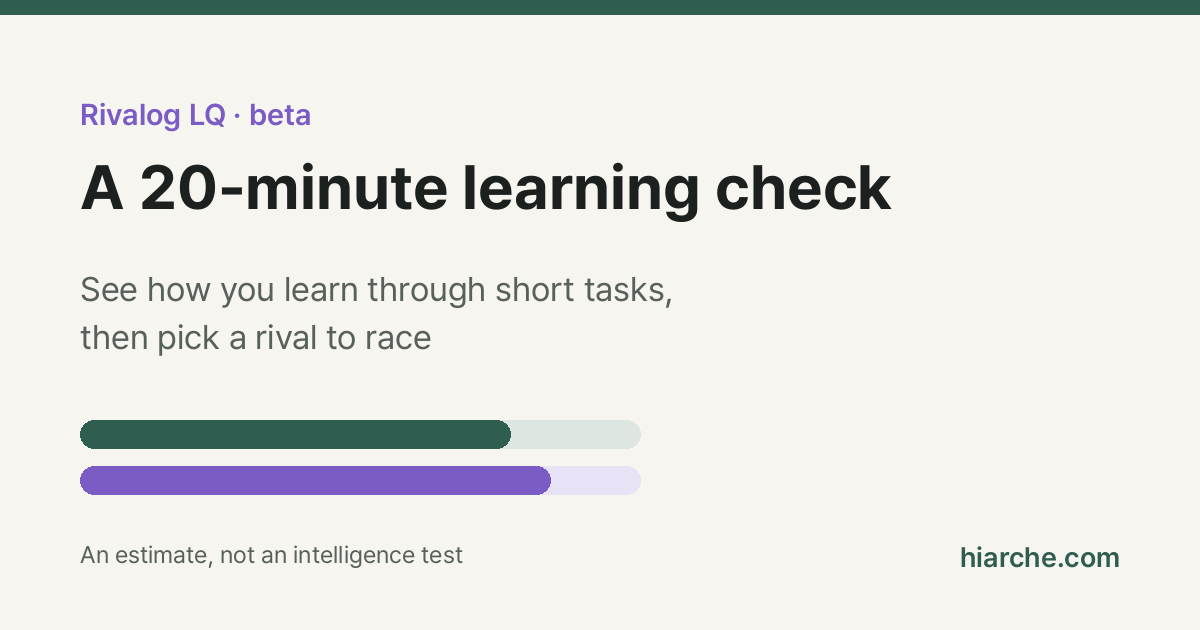
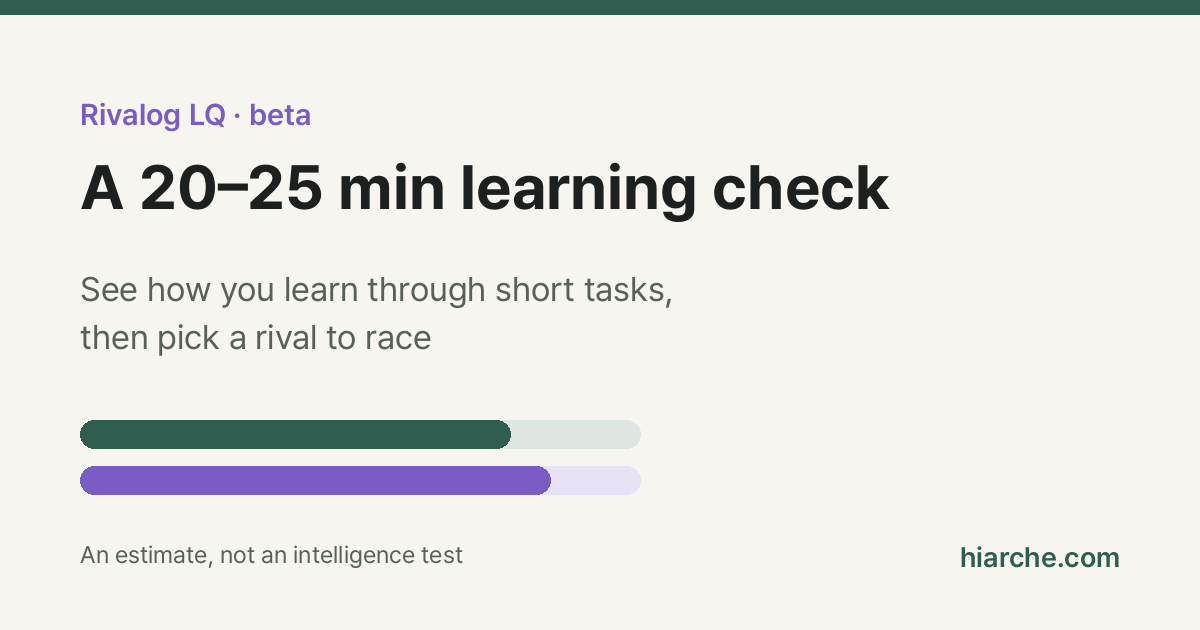
Preview bundle: legal LQ notice, corrected LQ og images (20-25 min)
Not for main until CEO approval. LQ collection pages to be added after audit.

Claude-Session: https://claude.ai/code/session_01AoduYMaqJiGpPcnr2tUJac

Changed region(s): [[0.185, 0.2413, 0.74, 0.3619]]

diff --git a/legal.html b/legal.html
@@ -19,6 +19,11 @@
 <header class="top wrap"><a class="logo" href="index.html"><b>Hi</b>Arche</a><nav class="main" aria-label="Main"><a href="index.html#apps">Apps</a><a href="news.html">News</a><a href="journal.html">Journal</a><a href="support.html">Support</a><a href="press.html">Press &amp; Business</a></nav></header>
 <main id="main" class="wrap" style="padding-block:48px 96px;display:flex;flex-direction:column;gap:48px">
 <div style="display:flex;flex-direction:column;gap:12px"><h1 class="h1" style="font-size:clamp(44px,6vw,72px)">Privacy &amp; Legal</h1><p class="lead">Each app has its own privacy policy, because each one handles different things. This site uses no cookies, analytics or ads.</p></div>
+<section style="display:flex;flex-direction:column;gap:16px"><h2 style="font-size:28px">This website and the LQ test</h2>
+<div style="display:flex;flex-wrap:wrap;gap:20px">
+<p class="card white" style="flex:1 1 480px;min-width:0;margin:0">This site uses no cookies or analytics. LQ results are calculated only in your browser and are sent to Arche&#x27;s storage (Supabase Inc., servers in Seoul, Republic of Korea, acting as our processor) only if you agree and press Send on the result screen. Our hosting provider (Vercel Inc.) and storage provider may keep short-term access logs, including IP addresses, for security; Arche does not receive these logs or link them to test records. Contact and privacy officer: Junhyung Park · archeisit@gmail.com</p>
+<p lang="ko" class="card" style="flex:1 1 320px;min-width:0;margin:0;background:#E9EAE3">이 사이트는 쿠키나 분석 도구를 쓰지 않아요. LQ 검사 결과는 브라우저 안에서만 계산되며, 이용자가 결과 화면에서 직접 동의하고 보내기를 누른 경우에만 위 항목이 아르케의 저장소(Supabase Inc., 서버 위치 대한민국 서울 — 처리 위탁)로 전송돼요. 사이트 호스팅 업체(Vercel Inc.)와 저장소 업체는 보안을 위해 접속 기록(IP 주소 등)을 자체적으로 짧은 기간 남길 수 있으며, 아르케는 이 기록을 받거나 검사 기록과 연결하지 않아요. 문의·개인정보 보호책임자: 박준형 · archeisit@gmail.com</p>
+</div></section>
 <section style="display:flex;flex-direction:column;gap:16px"><h2 style="font-size:28px">App policies</h2>
 <div class="tablewrap"><table><thead><tr><th scope="col">App</th><th scope="col">Privacy policy</th><th scope="col">Support</th><th scope="col">Terms</th></tr></thead><tbody><tr><td style="font-weight:600">Niblore</td><td><a href="https://mistory-app.vercel.app/privacy.html">Read</a></td><td><a href="https://mistory-app.vercel.app/support.html">Open</a></td><td>Apple standard EULA</td></tr><tr><td style="font-weight:600">Burnpile</td><td><a href="https://wnsgud7387-web.github.io/arche-pages/bonfire-privacy.html">Read</a></td><td><a href="https://wnsgud7387-web.github.io/arche-pages/bonfire-support.html">Open</a></td><td>Apple standard EULA</td></tr><tr><td style="font-weight:600">Rivalog</td><td><a href="https://wnsgud7387-web.github.io/arche-pages/rivalog-privacy.html">Read</a></td><td><a href="https://wnsgud7387-web.github.io/arche-pages/rivalog-support.html">Open</a></td><td><a href="https://wnsgud7387-web.github.io/arche-pages/rivalog-terms.html">Read</a></td></tr><tr><td style="font-weight:600">Chosim</td><td><a href="https://wnsgud7387-web.github.io/arche-pages/privacy-microsuccess.html">Read</a></td><td><a href="https://wnsgud7387-web.github.io/arche-pages/support-microsuccess.html">Open</a></td><td>Apple standard EULA</td></tr><tr><td style="font-weight:600">Wanderlure</td><td><a href="https://wnsgud7387-web.github.io/arche-pages/privacy-explorer.html">Read</a></td><td><a href="https://wnsgud7387-web.github.io/arche-pages/support-explorer.html">Open</a></td><td>Apple standard EULA</td></tr><tr><td style="font-weight:600">Story Accounting</td><td><a href="https://wnsgud7387-web.github.io/arche-pages/story-acca-privacy.html">Read</a></td><td><a href="https://wnsgud7387-web.github.io/arche-pages/story-acca-support.html">Open</a></td><td>Apple standard EULA</td></tr></tbody></table></div></section>
 <section style="display:flex;flex-direction:column;gap:16px"><h2 style="font-size:28px">Business information</h2>

diff --git a/src/build.py b/src/build.py
@@ -5,10 +5,15 @@ import os, shutil, html
 ROOT = os.path.dirname(os.path.abspath(__file__))
 OUT = os.path.join(ROOT, 'site')
 UP = '/mnt/user-data/uploads'
-ICONS = '/tmp/claude-0/-home-claude/18cbcfc9-2d52-53f3-b09f-38e638a79a7c/scratchpad/hiarche_icons'
+ICONS = os.path.join(ROOT, 'icons')
+REPO = os.path.dirname(ROOT)  # flat site files at repo root (fallback for lab files)
 PG = 'https://wnsgud7387-web.github.io/arche-pages/'
 BOARD = 'https://github.com/wnsgud7387-web/hiarche-community/discussions'
 E = html.escape
+
+# Legal notice for the site (법무 rpl-20261020-lq-collect-legal C, verbatim)
+SITE_NOTICE_KO = '이 사이트는 쿠키나 분석 도구를 쓰지 않아요. LQ 검사 결과는 브라우저 안에서만 계산되며, 이용자가 결과 화면에서 직접 동의하고 보내기를 누른 경우에만 위 항목이 아르케의 저장소(Supabase Inc., 서버 위치 대한민국 서울 — 처리 위탁)로 전송돼요. 사이트 호스팅 업체(Vercel Inc.)와 저장소 업체는 보안을 위해 접속 기록(IP 주소 등)을 자체적으로 짧은 기간 남길 수 있으며, 아르케는 이 기록을 받거나 검사 기록과 연결하지 않아요. 문의·개인정보 보호책임자: 박준형 · archeisit@gmail.com'
+SITE_NOTICE_EN = "This site uses no cookies or analytics. LQ results are calculated only in your browser and are sent to Arche's storage (Supabase Inc., servers in Seoul, Republic of Korea, acting as our processor) only if you agree and press Send on the result screen. Our hosting provider (Vercel Inc.) and storage provider may keep short-term access logs, including IP addresses, for security; Arche does not receive these logs or link them to test records. Contact and privacy officer: Junhyung Park · archeisit@gmail.com"
 
 APPS = [
   dict(slug='niblore', name='Niblore', kind='Stories', bg='#0A132A', fg='#E3DFD8',
@@ -235,7 +240,8 @@ def build():
             'lab/og_lq2_en.png': 'Desktop/ARCHE/마케팅/hiarche/og_lq2_en.png'}
     for dst, src in labs.items():
         os.makedirs(os.path.dirname(os.path.join(OUT, dst)), exist_ok=True)
-        shutil.copy(os.path.join(UP, src), os.path.join(OUT, dst))
+        s_up = os.path.join(UP, src)
+        shutil.copy(s_up if os.path.exists(s_up) else os.path.join(REPO, os.path.basename(dst)), os.path.join(OUT, dst))
 
     # ---------- index ----------
     icons = ''.join(f'<img src="assets/icons/{a["slug"]}.png" alt="" style="transform:rotate({t})">' for a,t in zip(APPS, ['-4deg','3deg','-2deg','2deg','-3deg','4deg']))
@@ -380,6 +386,11 @@ def build():
     trs = ''.join(f'<tr><td style="font-weight:600">{E(a["name"])}</td><td><a href="{a["privacy"]}">Read</a></td><td><a href="{a["support"]}">Open</a></td><td>{terms_cell(a)}</td></tr>' for a in APPS)
     legal = head('Privacy & Legal — HiArche', 'Privacy policies, terms and business information for Arche and its apps.', 0, 'legal.html') + nav(0, '') + f'''<main id="main" class="wrap" style="padding-block:48px 96px;display:flex;flex-direction:column;gap:48px">
 <div style="display:flex;flex-direction:column;gap:12px"><h1 class="h1" style="font-size:clamp(44px,6vw,72px)">Privacy &amp; Legal</h1><p class="lead">Each app has its own privacy policy, because each one handles different things. This site uses no cookies, analytics or ads.</p></div>
+<section style="display:flex;flex-direction:column;gap:16px"><h2 style="font-size:28px">This website and the LQ test</h2>
+<div style="display:flex;flex-wrap:wrap;gap:20px">
+<p class="card white" style="flex:1 1 480px;min-width:0;margin:0">{E(SITE_NOTICE_EN)}</p>
+<p lang="ko" class="card" style="flex:1 1 320px;min-width:0;margin:0;background:#E9EAE3">{E(SITE_NOTICE_KO)}</p>
+</div></section>
 <section style="display:flex;flex-direction:column;gap:16px"><h2 style="font-size:28px">App policies</h2>
 <div class="tablewrap"><table><thead><tr><th scope="col">App</th><th scope="col">Privacy policy</th><th scope="col">Support</th><th scope="col">Terms</th></tr></thead><tbody>{trs}</tbody></table></div></section>
 <section style="display:flex;flex-direction:column;gap:16px"><h2 style="font-size:28px">Business information</h2>
